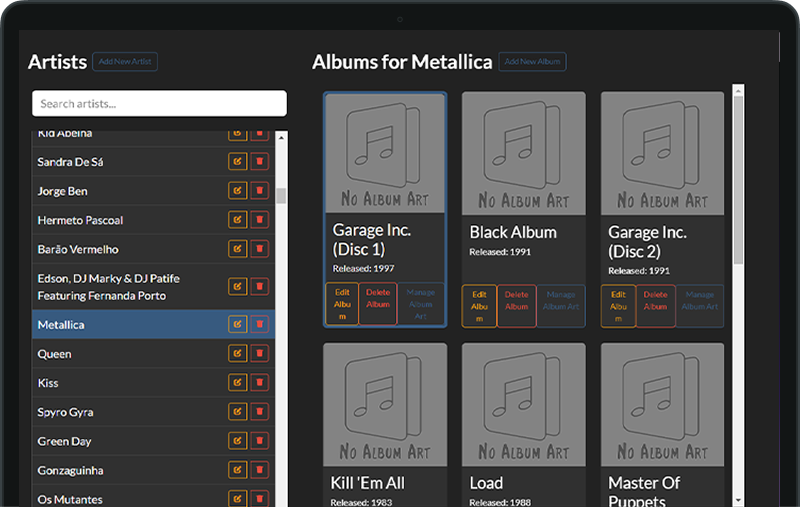
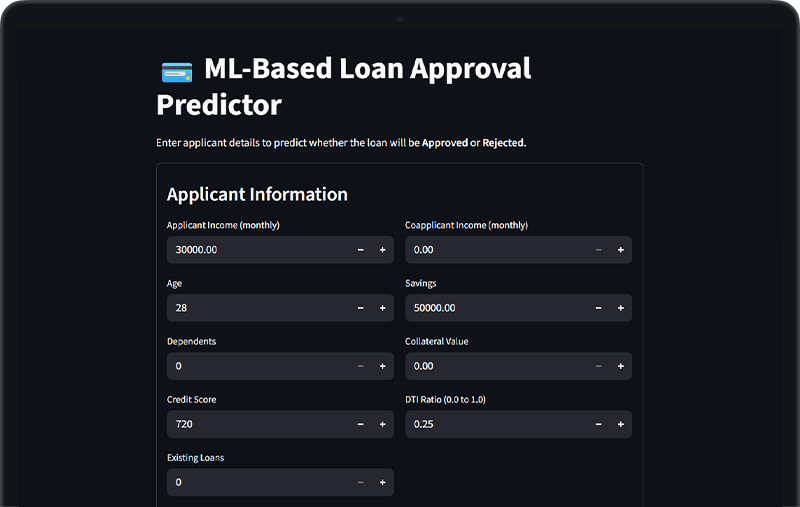
New Project Added

diff --git a/src/sections/Projects.tsx b/src/sections/Projects.tsx
@@ -7,7 +7,7 @@ import ArrowUpRightIcon from '@/assets/icons/arrow-up-right.svg'
 import grainImage from '@/assets/images/grain.jpg'
 import { SectionHeader } from "@/components/SectionHeader";
 import { Card } from "@/components/Card";
-
+import GithubIcon from "@/assets/icons/GithubIcon.svg"
 
 
 const portfolioProjects = [
@@ -21,6 +21,7 @@ const portfolioProjects = [
       { title: "Live chat and notifications with Socket.io integration" },
     ],
     link: "https://we-vibe-green.vercel.app/auth/sign-in",
+    github: "https://github.com/Lakshyadabral/WeVibe/tree/main",
     image: lightSaasLandingPage,
   },
   {
@@ -33,18 +34,21 @@ const portfolioProjects = [
       { title: "Secure user authentication using Passport.js" },
     ],
     link: "https://wanderlust-fullstack-app.onrender.com/listings",
+    github: "https://github.com/Lakshyadabral/wanderlust-fullstack-app/tree/main",
     image: darkSaasLandingPage,
   },
   {
-    company: "Music Album App",
-    year: "2025",
-    title: "Music Streaming & Album Management",
+    company: "SecureTrust Bank (Simulated)",
+    year: "2026",
+    title: "ML-Based Loan Approval Predictor",
     results: [
-      { title: "Dynamic album management: add, view, and edit albums" },
-      { title: "Real-time server-side rendering with Express.js" },
-      { title: "Robust input validation using Joi for secure data handling" },
+      { title: "Built an end-to-end loan approval system using Logistic Regression, KNN, and Naive Bayes" },
+      { title: "Implemented a full ML pipeline with preprocessing, feature engineering, and model evaluation" },
+      { title: "Deployed an interactive Streamlit app for real-time loan approval predictions with confidence scores" },
     ],
-    link: "https://music-album-app.onrender.com/",
+    link: "https://lakshyadabral-ml-based-loan-approval-predictor-app-w67pmu.streamlit.app/",
+    github: "https://github.com/Lakshyadabral/ML-Based-Loan-Approval-Predictor",
+
     image: aiStartupLandingPage,
   },
 ];
@@ -78,13 +82,22 @@ export const ProjectsSection = () => {
                 </li>
             ))}
           </ul>
+        <div className="flex flex-col md:flex-row gap-4 mt-8">
           <a href={project.link} target="_blank" rel="noopener noreferrer">
-          <button className="bg-white text-gray-950 h-12 w-full md:w-auto px-6 rounded-xl font-semibold inline-flex items-center justify-center gap-2 mt-8">
-           <span> Visit Live Site
-           </span>
-           <ArrowUpRightIcon className="size-4"/>
-           </button>
+            <button className="bg-white text-gray-950 h-12 w-full md:w-auto px-6 rounded-xl font-semibold inline-flex items-center justify-center gap-2">
+              <span>Visit Live Site</span>
+              <ArrowUpRightIcon className="size-4" />
+            </button>
           </a>
+
+          <a href={project.github} target="_blank" rel="noopener noreferrer">
+            <button className="bg-white text-gray-950 h-12 w-full md:w-auto px-6 rounded-xl font-semibold inline-flex items-center justify-center gap-2">
+              <span>Visit GitHub</span>
+              <GithubIcon className="size-4" />
+            </button>
+          </a>
+        </div>
+
           </div>
           <div className="relative">
          <Image src={project.image} alt={project.title} className="mt-8 -mb-4 md:-mb-0 lg:mt-0 lg:absolute lg:h-full lg:h-full lg:w-auto lg:max-w-none" />
